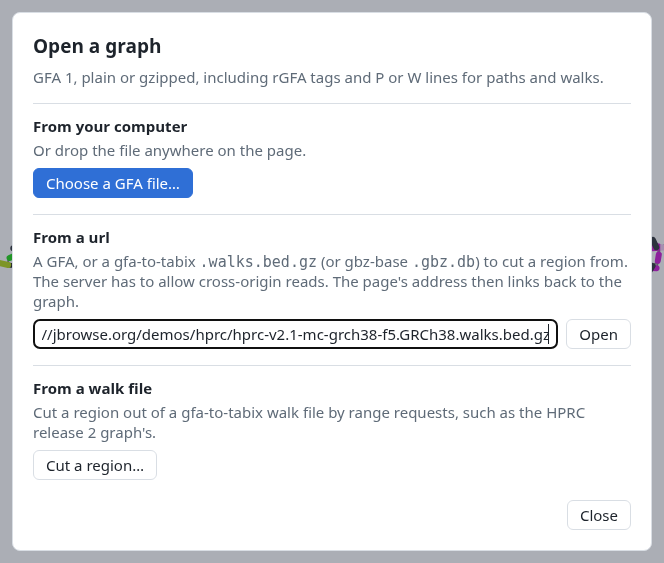
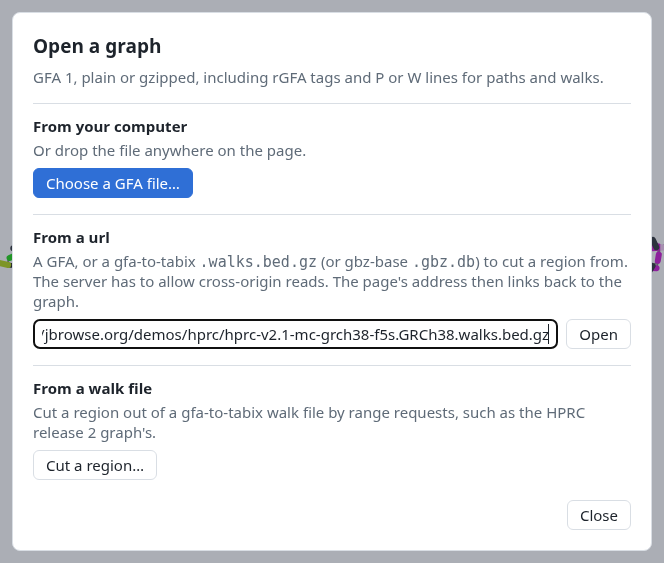
Open HPRC's -f5s walk file, with graph-walks 4.4.0
The hprc shortcut, the tutorial and its screenshots name the -f5s file, which
adds skip rows to -f5's rows. graph-walks 4.4.0 reads them into a cut's
tables. BandageJS draws walk rows from the loaded graph, which has no skips,
so cut_graph and cut_rows shoot unchanged; only the dialogs showing the url
changed.

Changed region(s): [[0.0602, 0.5737, 0.8133, 0.6039]]

diff --git a/src/gbz.ts b/src/gbz.ts
@@ -25,7 +25,7 @@ export const isHprc = (src: { db: string; index?: string }) =>
   src.db === HPRC.db && src.index === HPRC.index
 
 export const HPRC_WALKS =
-  'https://jbrowse.org/demos/hprc/hprc-v2.1-mc-grch38-f5.GRCh38.walks.bed.gz'
+  'https://jbrowse.org/demos/hprc/hprc-v2.1-mc-grch38-f5s.GRCh38.walks.bed.gz'
 
 const opened = new Map<string, ReturnType<typeof openGbz>>()
 

diff --git a/docs/walk-files.md b/docs/walk-files.md
@@ -87,7 +87,7 @@ The address holds the whole cut, so File → **Copy link** shares it:
 ```
 
 `hprc` stands for the HPRC release 2 file,
-`https://jbrowse.org/demos/hprc/hprc-v2.1-mc-grch38-f5.GRCh38.walks.bed.gz`; a
+`https://jbrowse.org/demos/hprc/hprc-v2.1-mc-grch38-f5s.GRCh38.walks.bed.gz`; a
 link to your own file holds its url.
 
 [The user guide](guide.md#links) lists every parameter.
